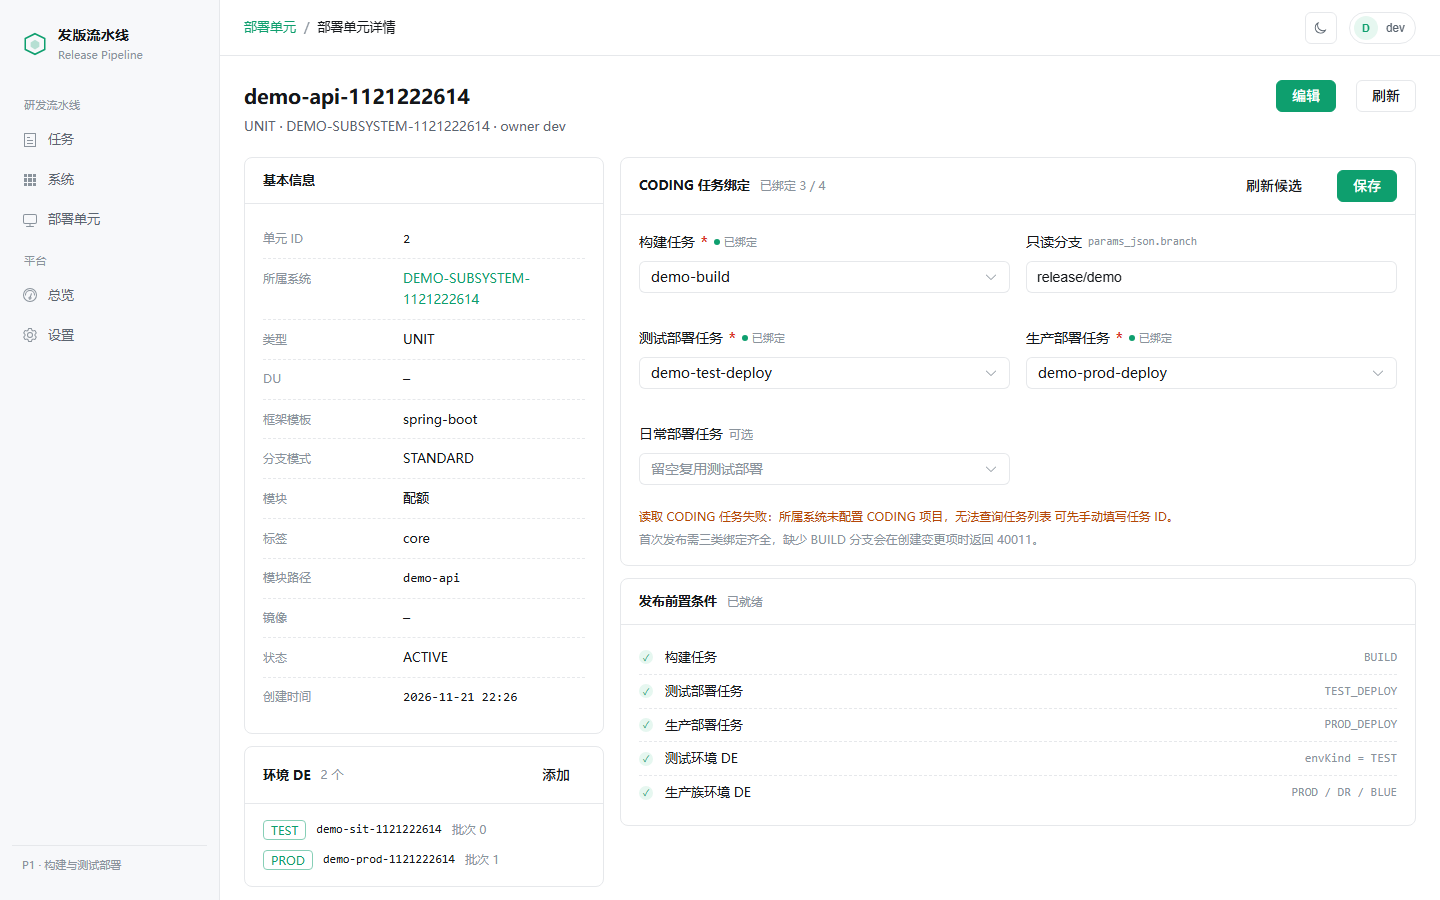
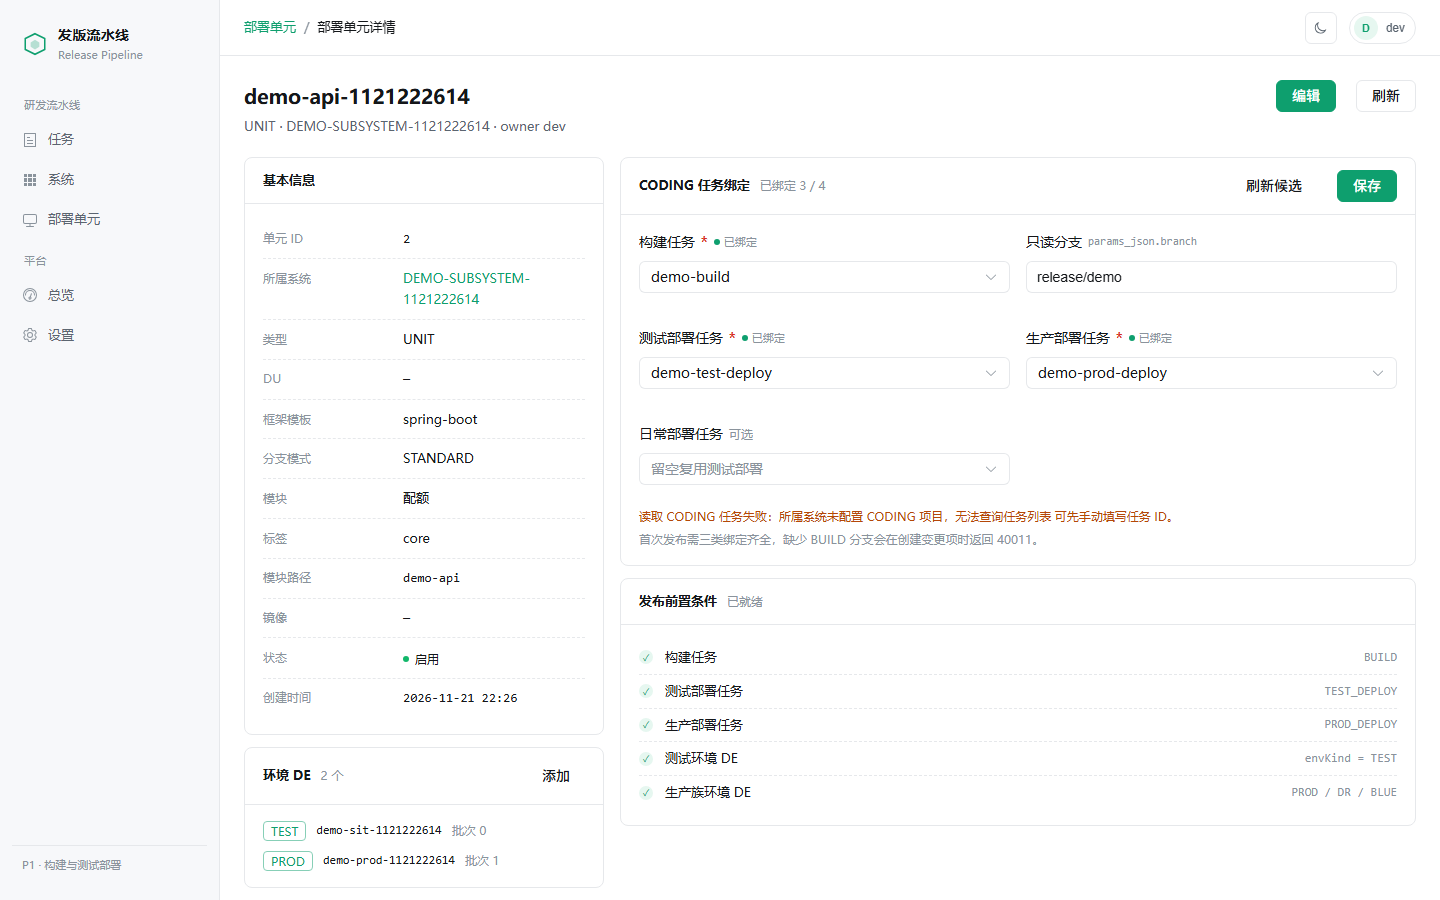
feat: say UTF-8 in JSON responses, label lifecycle statuses, preview the branch
Three small things that each remove a wrong guess:

1. JSON answers now carry \charset=UTF-8\. The bytes were always UTF-8, but
   without the charset a client has to guess: PowerShell's Invoke-RestMethod
   picks ISO-8859-1 and renders 配额 as mojibake, which reads like a server-side
   encoding bug. A probe controller in JsonCharsetTest asserts both the header
   and the decoded body, so the assertion is about the converter, not about
   which tables are populated.

2. 部署单元 / 系统 show ACTIVE as 启用 and INACTIVE as 停用 with a status dot,
   instead of leaking the enum into the UI.

3. 新建变更项 now reads the selected unit's BUILD binding and shows the read-only
   branch before submitting; with no branch the 创建 button is disabled and a 去配置
   link points at the unit page. 40011 still exists server-side, but the dialog
   now turns it into a sentence instead of a surprise.

diff --git a/web/src/views/TaskDetailView.vue b/web/src/views/TaskDetailView.vue
@@ -6,6 +6,7 @@ import {
   addTaskMembers,
   createItem,
   getTask,
+  listCodingTasks,
   listTaskItems,
   listUnits,
   publishItem
@@ -32,6 +33,11 @@ const publishing = ref<number | null>(null)
 
 const itemDialog = ref(false)
 const itemForm = reactive({ unitId: undefined as number | undefined, version: '', planReleaseDate: '' })
+// The branch is not an input (C21): it comes from the unit's BUILD binding, so the dialog
+// shows what the server will use and blocks the submit when nothing is configured.
+const unitBranch = ref<string | null>(null)
+const branchLoading = ref(false)
+const branchReady = computed(() => Boolean(unitBranch.value))
 const memberDialog = ref(false)
 const memberForm = reactive({ userId: '', role: 'TEST' })
 
@@ -63,11 +69,48 @@ function openItemDialog() {
   itemForm.version = ''
   itemForm.planReleaseDate = ''
   itemDialog.value = true
+  loadUnitBranch()
+}
+
+/** Reads the unit's read-only branch so the dialog can say what will be built. */
+async function loadUnitBranch() {
+  const unitId = itemForm.unitId
+  unitBranch.value = null
+  if (!unitId) {
+    return
+  }
+  branchLoading.value = true
+  try {
+    const bindings = await listCodingTasks(unitId)
+    const build = bindings.find((b) => b.taskKind === 'BUILD' && b.enabled !== false)
+    if (!build?.paramsJson) {
+      unitBranch.value = null
+      return
+    }
+    const params = JSON.parse(build.paramsJson) as { branch?: unknown }
+    unitBranch.value = typeof params.branch === 'string' ? params.branch : null
+  } catch {
+    unitBranch.value = null
+  } finally {
+    if (itemForm.unitId === unitId) {
+      branchLoading.value = false
+    }
+  }
+}
+
+function goToUnit() {
+  if (itemForm.unitId) {
+    router.push(`/units/${itemForm.unitId}`)
+  }
 }
 
 async function submitItem() {
   if (!itemForm.unitId || !itemForm.version.trim() || !itemForm.planReleaseDate) {
     ElMessage.warning('部署单元、变更原因与计划发布时间必填')
+    return
+  }
+  if (!branchReady.value) {
+    ElMessage.warning('该单元没有只读分支，请先在单元详情页配置 BUILD 的只读分支')
     return
   }
   try {
@@ -81,7 +124,17 @@ async function submitItem() {
     ElMessage.success('变更项已创建（分支由 CODING 构建任务带出）')
     await load()
   } catch (e) {
-    ElMessage.error(e instanceof ApiError ? e.message : '创建失败')
+    if (e instanceof ApiError) {
+      const missing = (e.detail as { missing?: string[] } | undefined)?.missing
+      if (missing?.includes('BUILD_BRANCH')) {
+        ElMessage.error('该单元的构建任务没有只读分支（40011），先在单元详情页填写后再创建')
+        unitBranch.value = null
+        return
+      }
+      ElMessage.error(e.message)
+    } else {
+      ElMessage.error('创建失败')
+    }
   }
 }
 
@@ -230,11 +283,21 @@ async function submitMember() {
     <el-dialog v-model="itemDialog" title="新建变更项" width="520px">
       <el-form label-position="top">
         <el-form-item label="部署单元" required>
-          <el-select v-model="itemForm.unitId" placeholder="选择部署单元" style="width: 100%">
+          <el-select
+            v-model="itemForm.unitId"
+            placeholder="选择部署单元"
+            style="width: 100%"
+            @change="loadUnitBranch"
+          >
             <el-option v-for="u in units" :key="u.id" :label="`${u.name} · ${u.type}`" :value="u.id" />
           </el-select>
-          <div class="weak small" style="margin-top: 6px">
-            分支不在此录入：由该单元 BUILD 任务绑定里的只读分支带出（C21）。
+          <div v-if="branchLoading" class="weak small" style="margin-top: 6px">读取只读分支…</div>
+          <div v-else-if="unitBranch" class="branch-hint small">
+            只读分支 <code class="mono">{{ unitBranch }}</code>（来自 BUILD 任务绑定，不可在此修改）
+          </div>
+          <div v-else class="branch-missing small">
+            该单元的 BUILD 绑定没有只读分支，创建会被拒绝（40011）。
+            <el-button text type="primary" size="small" @click="goToUnit">去配置</el-button>
           </div>
         </el-form-item>
         <div class="grid grid-2">
@@ -248,7 +311,7 @@ async function submitMember() {
       </el-form>
       <template #footer>
         <el-button @click="itemDialog = false">取消</el-button>
-        <el-button type="primary" @click="submitItem">创建</el-button>
+        <el-button type="primary" :disabled="!branchReady" @click="submitItem">创建</el-button>
       </template>
     </el-dialog>
 
@@ -291,6 +354,17 @@ async function submitMember() {
   color: var(--accent);
   font-size: 11px;
   font-weight: 600;
+}
+.branch-hint {
+  margin-top: 6px;
+  color: var(--text-2);
+}
+.branch-hint code {
+  color: var(--text);
+}
+.branch-missing {
+  margin-top: 6px;
+  color: var(--warn);
 }
 @media (max-width: 960px) {
   .grid {

diff --git a/web/src/views/SubsystemDetailView.vue b/web/src/views/SubsystemDetailView.vue
@@ -9,6 +9,7 @@ import PageHeader from '../components/PageHeader.vue'
 import DataSection from '../components/DataSection.vue'
 import EmptyState from '../components/EmptyState.vue'
 import KeyValue from '../components/KeyValue.vue'
+import StatusDot from '../components/StatusDot.vue'
 
 const route = useRoute()
 const id = Number(route.params.id)
@@ -74,7 +75,9 @@ async function submit() {
         <KeyValue label="系统 ID" :value="subsystem?.id" mono />
         <KeyValue label="负责人" :value="subsystem?.ownerId" />
         <KeyValue label="授权代理" :value="subsystem?.agentId" />
-        <KeyValue label="状态" :value="subsystem?.status" />
+        <KeyValue label="状态">
+            <StatusDot :status="subsystem?.status" />
+          </KeyValue>
         <KeyValue label="CODING 项目" :value="subsystem?.codingProject" mono />
         <KeyValue label="Git 仓库" :value="subsystem?.gitUrl" mono />
         <KeyValue label="描述" :value="subsystem?.description" />
@@ -92,7 +95,11 @@ async function submit() {
           <el-table-column prop="ownerId" label="owner" width="110" />
           <el-table-column prop="frameworkTemplate" label="框架模板" width="120" />
           <el-table-column prop="branchMode" label="分支模式" width="110" />
-          <el-table-column prop="status" label="状态" width="90" />
+          <el-table-column label="状态" width="100">
+          <template #default="{ row }">
+            <StatusDot :status="row.status" />
+          </template>
+        </el-table-column>
         </el-table>
         <EmptyState v-else-if="!loading" title="还没有部署单元" hint="部署单元是构建与部署的最小单位。" />
         <div v-else style="padding: 24px"><el-skeleton :rows="4" animated /></div>

diff --git a/web/src/views/UnitListView.vue b/web/src/views/UnitListView.vue
@@ -6,6 +6,7 @@ import { ApiError } from '../api/http'
 import PageHeader from '../components/PageHeader.vue'
 import DataSection from '../components/DataSection.vue'
 import EmptyState from '../components/EmptyState.vue'
+import StatusDot from '../components/StatusDot.vue'
 
 const rows = ref<PageResult<UnitView> | null>(null)
 const subsystems = ref<SubsystemView[]>([])
@@ -111,7 +112,11 @@ const subsystemName = (id: number) => subsystems.value.find((s) => s.id === id)?
         <el-table-column prop="ownerId" label="owner" width="110" />
         <el-table-column prop="frameworkTemplate" label="框架" width="120" />
         <el-table-column prop="branchMode" label="分支模式" width="110" />
-        <el-table-column prop="status" label="状态" width="90" />
+        <el-table-column label="状态" width="100">
+          <template #default="{ row }">
+            <StatusDot :status="row.status" />
+          </template>
+        </el-table-column>
       </el-table>
       <EmptyState v-else-if="!loading" title="还没有部署单元" hint="从某个系统详情页新建。" />
       <div v-else style="padding: 24px"><el-skeleton :rows="4" animated /></div>

diff --git a/web/src/views/SubsystemListView.vue b/web/src/views/SubsystemListView.vue
@@ -7,6 +7,7 @@ import { ApiError } from '../api/http'
 import PageHeader from '../components/PageHeader.vue'
 import DataSection from '../components/DataSection.vue'
 import EmptyState from '../components/EmptyState.vue'
+import StatusDot from '../components/StatusDot.vue'
 
 const rows = ref<PageResult<SubsystemView> | null>(null)
 const loading = ref(false)
@@ -84,7 +85,11 @@ async function submit() {
         <el-table-column prop="codingProject" label="CODING 项目" min-width="140">
           <template #default="{ row }"><span class="mono">{{ row.codingProject || '—' }}</span></template>
         </el-table-column>
-        <el-table-column prop="status" label="状态" width="100" />
+        <el-table-column label="状态" width="100">
+          <template #default="{ row }">
+            <StatusDot :status="row.status" />
+          </template>
+        </el-table-column>
       </el-table>
       <EmptyState v-else-if="!loading" title="还没有系统" hint="先建系统，再建部署单元。" />
       <div v-else style="padding: 24px"><el-skeleton :rows="4" animated /></div>

diff --git a/web/src/views/UnitDetailView.vue b/web/src/views/UnitDetailView.vue
@@ -9,6 +9,7 @@ import PageHeader from '../components/PageHeader.vue'
 import DataSection from '../components/DataSection.vue'
 import EmptyState from '../components/EmptyState.vue'
 import KeyValue from '../components/KeyValue.vue'
+import StatusDot from '../components/StatusDot.vue'
 import { formatDateTime } from '../utils/format'
 
 const route = useRoute()
@@ -281,7 +282,9 @@ async function submitDe() {
           <KeyValue label="标签" :value="unit?.tag" />
           <KeyValue label="模块路径" :value="unit?.modulePath" mono />
           <KeyValue label="镜像" :value="unit?.imageName" mono />
-          <KeyValue label="状态" :value="unit?.status" />
+          <KeyValue label="状态">
+            <StatusDot :status="unit?.status" />
+          </KeyValue>
           <KeyValue label="创建时间" :value="formatDateTime(unit?.createdAt)" mono />
         </DataSection>
 

diff --git a/web/src/utils/format.ts b/web/src/utils/format.ts
@@ -21,6 +21,9 @@ const LABELS: Record<string, string> = {
   SUCCESS: '成功',
   TIMEOUT: '超时',
   SKIPPED: '已跳过',
+  // lifecycle of a unit / subsystem
+  ACTIVE: '启用',
+  INACTIVE: '停用',
   // gate
   TEST_PENDING: '待测试',
   TEST_PASS: '测试通过',
@@ -52,6 +55,8 @@ export function statusLabel(status?: string | null, domain: StatusDomain = 'item
 export type Tone = 'neutral' | 'accent' | 'success' | 'danger' | 'warn'
 
 const TONES: Record<string, Tone> = {
+  ACTIVE: 'success',
+  INACTIVE: 'neutral',
   PENDING: 'neutral',
   CLOSED: 'neutral',
   TERMINATED: 'neutral',

diff --git a/server/src/test/java/com/sf/release/web/support/JsonCharsetTest.java b/server/src/test/java/com/sf/release/web/support/JsonCharsetTest.java
@@ -1,0 +1,83 @@
+package com.sf.release.web.support;
+
+import org.junit.jupiter.api.BeforeEach;
+import org.junit.jupiter.api.Test;
+import org.springframework.beans.factory.annotation.Autowired;
+import org.springframework.boot.test.autoconfigure.web.servlet.AutoConfigureMockMvc;
+import org.springframework.boot.test.context.SpringBootTest;
+import org.springframework.boot.test.context.TestConfiguration;
+import org.springframework.context.annotation.Bean;
+import org.springframework.jdbc.core.JdbcTemplate;
+import org.springframework.test.context.ActiveProfiles;
+import org.springframework.test.web.servlet.MockMvc;
+import org.springframework.test.web.servlet.MvcResult;
+import org.springframework.web.bind.annotation.GetMapping;
+import org.springframework.web.bind.annotation.RestController;
+
+import java.util.Map;
+
+import static org.assertj.core.api.Assertions.assertThat;
+import static org.hamcrest.Matchers.allOf;
+import static org.hamcrest.Matchers.containsString;
+import static org.springframework.test.web.servlet.request.MockMvcRequestBuilders.get;
+import static org.springframework.test.web.servlet.result.MockMvcResultMatchers.header;
+import static org.springframework.test.web.servlet.result.MockMvcResultMatchers.status;
+
+/**
+ * JSON answers must say {@code charset=UTF-8}.
+ *
+ * <p>Without it the bytes are still UTF-8 but the client has to guess: PowerShell's
+ * {@code Invoke-RestMethod} guesses ISO-8859-1 and shows Chinese as mojibake, which makes a
+ * perfectly good payload look like a server-side encoding bug.
+ *
+ * <p>A probe controller is registered instead of reusing a business endpoint, so the assertion is
+ * about the message converter rather than about which tables happen to be populated.
+ */
+@SpringBootTest
+@AutoConfigureMockMvc
+@ActiveProfiles("test")
+class JsonCharsetTest {
+
+    private static final String USER_ID = "t8-charset";
+    private static final String USER_HEADER = "X-User-Id";
+
+    @Autowired MockMvc mvc;
+    @Autowired JdbcTemplate jdbc;
+
+    @BeforeEach
+    void givenAuthenticatedUser() {
+        jdbc.update("DELETE FROM app_user WHERE id = ?", USER_ID);
+        jdbc.update("INSERT INTO app_user (id, name, status, created_at)"
+            + " VALUES (?, '用户', 'ACTIVE', NOW(3))", USER_ID);
+    }
+
+    @Test
+    void json_response_declares_utf8_and_keeps_the_json_media_type() throws Exception {
+        MvcResult result = mvc.perform(get("/test/json-charset").header(USER_HEADER, USER_ID))
+            .andExpect(status().isOk())
+            .andExpect(header().string("Content-Type", allOf(
+                containsString("application/json"),
+                containsString("charset=UTF-8"))))
+            .andReturn();
+
+        assertThat(result.getResponse().getContentAsString()).isEqualTo("{\"name\":\"配额\"}");
+    }
+
+    @TestConfiguration(proxyBeanMethods = false)
+    static class ProbeConfig {
+
+        @Bean
+        ProbeController jsonCharsetProbeController() {
+            return new ProbeController();
+        }
+    }
+
+    @RestController
+    static class ProbeController {
+
+        @GetMapping("/test/json-charset")
+        Map<String, String> probe() {
+            return Map.of("name", "配额");
+        }
+    }
+}

diff --git a/server/src/main/java/com/sf/release/web/support/JsonCharsetConfig.java b/server/src/main/java/com/sf/release/web/support/JsonCharsetConfig.java
@@ -1,0 +1,44 @@
+package com.sf.release.web.support;
+
+import org.springframework.context.annotation.Bean;
+import org.springframework.context.annotation.Configuration;
+import org.springframework.http.MediaType;
+import org.springframework.http.converter.HttpMessageConverter;
+import org.springframework.http.converter.json.AbstractJackson2HttpMessageConverter;
+import org.springframework.web.servlet.config.annotation.WebMvcConfigurer;
+
+import java.nio.charset.StandardCharsets;
+import java.util.List;
+
+/**
+ * Declares the charset of JSON responses explicitly.
+ *
+ * <p>Spring Boot's Jackson converter answers {@code application/json} without a charset. Browsers
+ * and axios decode JSON as UTF-8 by default, but every other client has to guess: PowerShell's
+ * {@code Invoke-RestMethod}, for one, falls back to ISO-8859-1 and renders Chinese field values as
+ * mojibake even though the bytes on the wire are correct. Adding {@code charset=UTF-8} removes the
+ * guess without changing the payload.
+ *
+ * <p>This is a presentation concern only: no controller sets an encoding and the JSON body is
+ * always UTF-8 already.
+ */
+@Configuration(proxyBeanMethods = false)
+public class JsonCharsetConfig {
+
+    @Bean
+    public WebMvcConfigurer utf8JsonContentType() {
+        return new WebMvcConfigurer() {
+            @Override
+            public void extendMessageConverters(List<HttpMessageConverter<?>> converters) {
+                for (HttpMessageConverter<?> converter : converters) {
+                    if (converter instanceof AbstractJackson2HttpMessageConverter jackson) {
+                        jackson.setDefaultCharset(StandardCharsets.UTF_8);
+                        // Keep the JSON media type: adding a charset must not turn the response
+                        // into text/plain for clients that negotiate strictly.
+                        jackson.setSupportedMediaTypes(List.of(MediaType.APPLICATION_JSON));
+                    }
+                }
+            }
+        };
+    }
+}

diff --git a/docs/design/frontend-p1-design.md b/docs/design/frontend-p1-design.md
@@ -79,6 +79,9 @@
 | 实例 | PENDING / RUNNING / PAUSED | 灰 / 强调（呼吸）/ 琥珀 |
 | 实例 | DONE / FAILED | 绿 / 红 |
 | 任务节点 | PENDING / RUNNING / SUCCESS / FAILED / TIMEOUT / SKIPPED | 灰 / 强调 / 绿 / 红 / 红 / 灰 |
+| 生命周期 | ACTIVE / INACTIVE（部署单元、系统） | 绿 / 灰 |
+
+同一个原始值在不同域里含义可能不同（例如 `PENDING` 在变更项是「待发布」、在节点是「待开始」），所以 `StatusDot`/`statusLabel` 带 `domain` 参数；新增状态值先补 `format.ts` 的 `LABELS`/`TONES`，否则会退化成裸枚举展示。
 
 ## 6. 明暗切换
 
@@ -108,6 +111,8 @@
 - **部署单元列表**：新增「模块」「标签」两个精确筛选与「模块 / 标签」列（标签显示为 `#value` 小徽标），筛选条改为 `系统 / 类型 / 模块 / 标签 / 名称`。
 - **部署单元详情**：新增「编辑」弹窗，一次改完基本信息；保存是整体替换，留空的可选字段会被清空，这条规则直接写在弹窗底部。基本信息卡新增「模块」「标签」两行，与「模块路径」并列以体现两者不同。
 - **CODING 绑定改为选择**：任务输入框换成可搜索下拉，候选按所属系统的 CODING 项目分别拉取构建 / 部署两个命名空间；拉取失败时保留 `allow-create`，并在表单下方用警示色说明原因——「连不上」不能被误读成「项目没有任务」。
+- **新建变更项**：选中部署单元后立即读出它的 BUILD 只读分支并显示（只读、不可改），没有分支时把「创建」按钮置灰并给出去配置的入口，把 40011 从「点提交才报错」提前成「选单元就知道」；后端仍返回 40011 兜底，前端把它翻译成同一句人话。
+- **生命周期状态**：部署单元与系统的 `ACTIVE / INACTIVE` 补上中文标签与色点（启用 / 停用），不再裸显示枚举。
 
 ## 8. 验收
 
